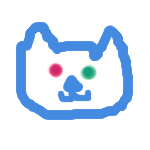
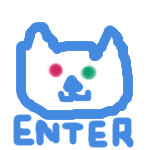
cat face

diff --git a/index.html b/index.html
@@ -23,7 +23,7 @@
 					<i class="material-icons" id="warning" style="color:red">warning</i>
 				</div>
 			</div>
-			<input type="image" src="index/cat_face.jpg" name="enter_butt" class="enter_button" id="enter_butt" />
+			<input type="image" src="index/cat_face2.jpg" name="enter_butt" class="enter_button" id="enter_butt" />
 		</center>
 		
 		<script>
@@ -33,10 +33,11 @@
                 function setHtml() {
                     console.log("hi");
 					if (count == 0) {
-						document.getElementById("warn_div").innerHTML = "<i class=\"material-icons\" id=\"warning\" style=\"color:red\">warning</i>";
+						document.getElementById("warn_div").innerHTML = "<i class=\"material-icons\" id=\"warning\" style=\"color:red; visibility:hidden\">warning</i>";
 						count = 1;
 					} else {
-                    	document.getElementById("warn_div").innerHTML = "<p></p>";
+                    	document.getElementById("warn_div").innerHTML = "<i class=\"material-icons\" id=\"warning\" style=\"color:red; visibility:visible\">warning</i>";
+;
 						count = 0;
 					}
                 }
